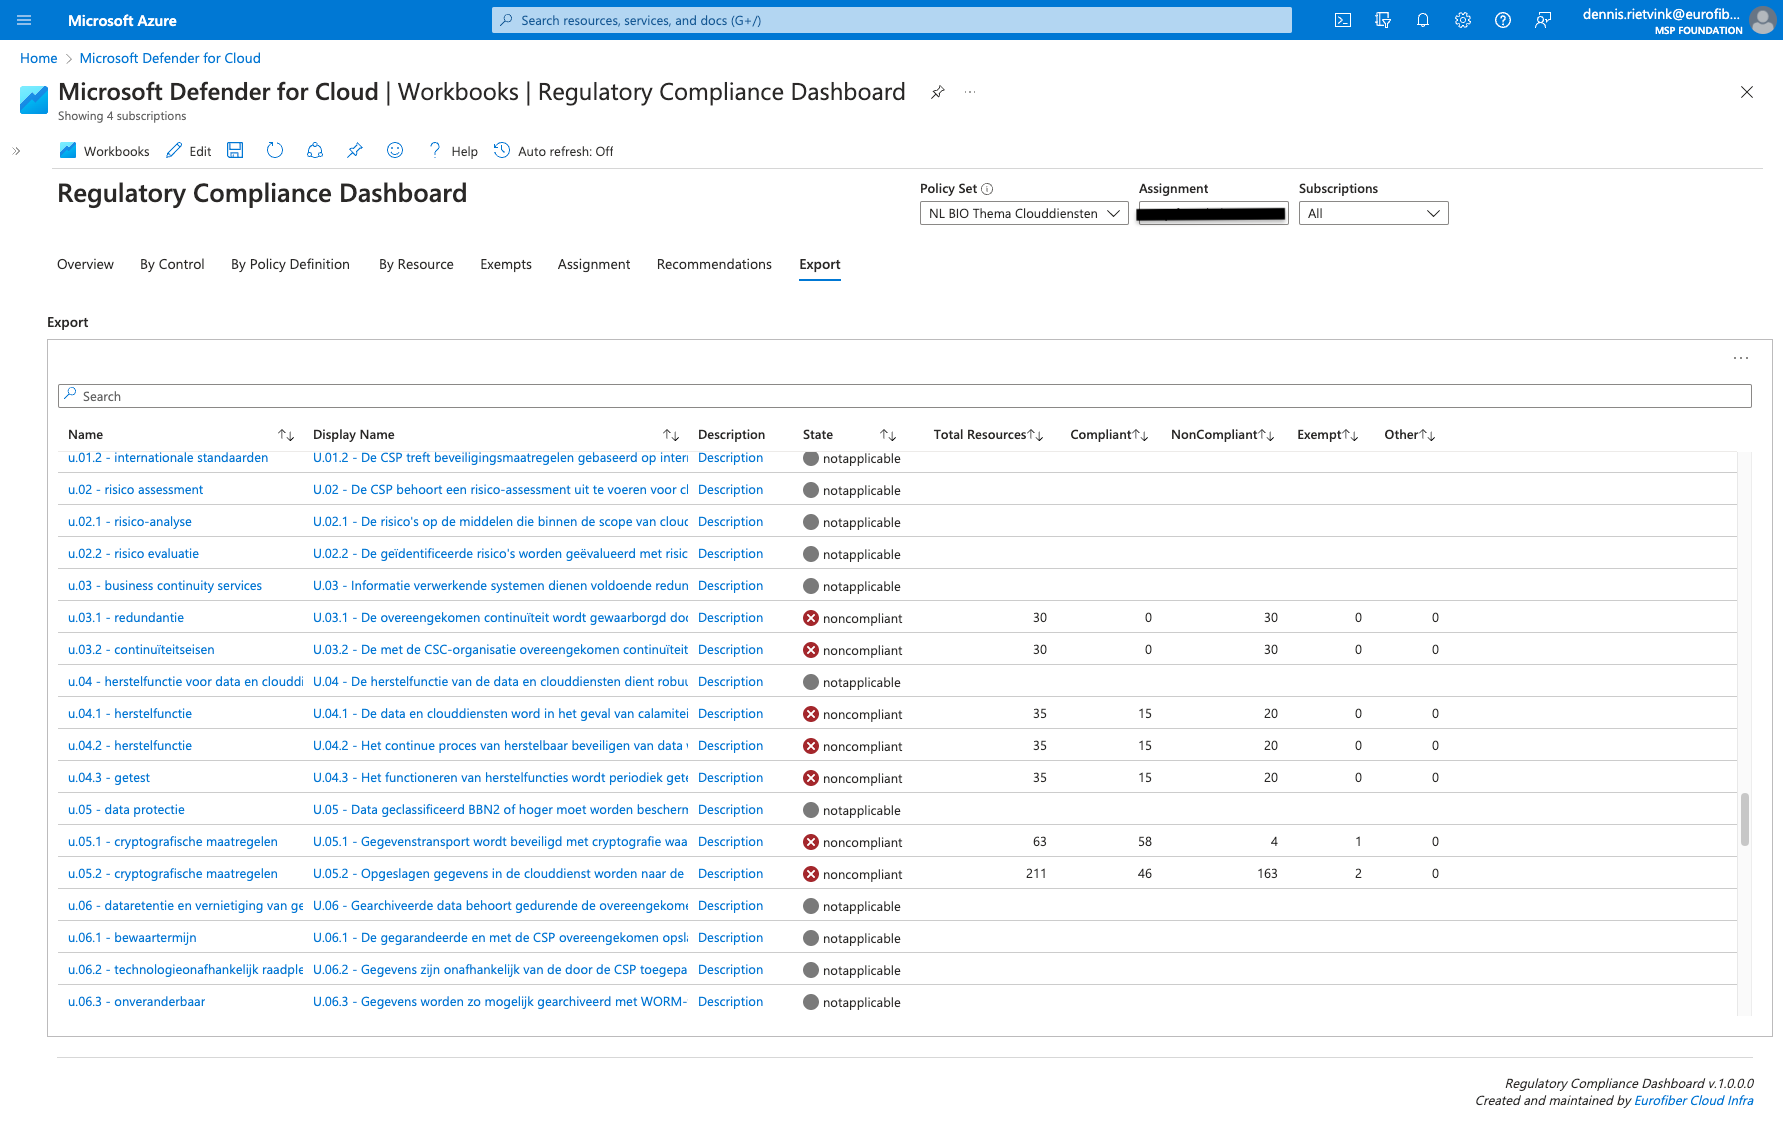
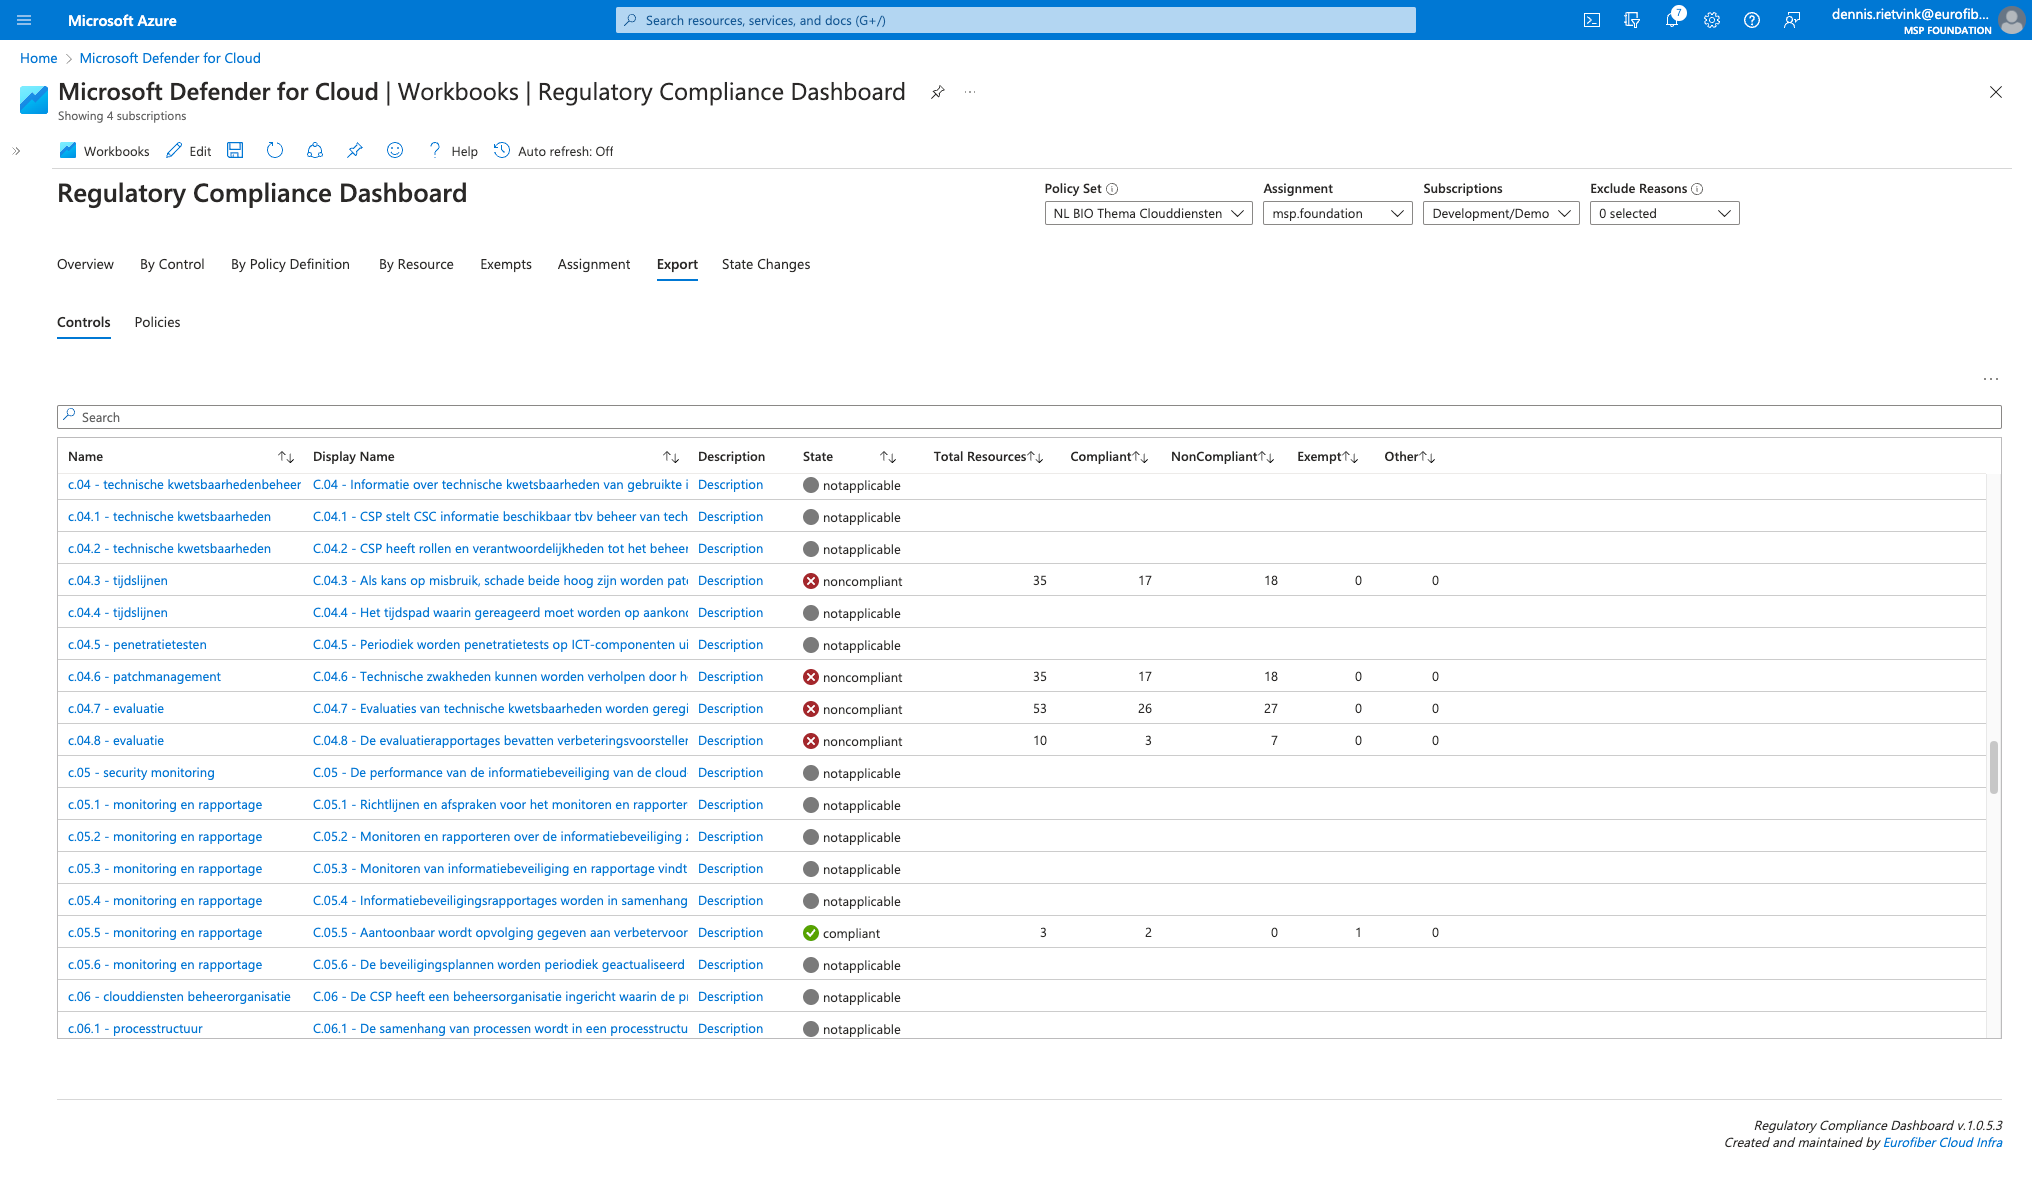
UPD: documentation

diff --git a/README.md b/README.md
@@ -1,40 +1,28 @@
 # Regulatory Compliance Workbook
 
-- [Regulatory Compliance Workbook](#regulatory-compliance-workbook)
-  - [Main features](#main-features)
-  - [Examples](#examples)
-    - [Overview](#overview)
-    - [In Context Details](#in-context-details)
-    - [Contextual Links](#contextual-links)
-    - [Export](#export)
-  - [Deploy the Workbook](#deploy-the-workbook)
-  - [Open the Workbook](#open-the-workbook)
+- [Main features](#main-features)
+- [Deploy the Workbook](#deploy-the-workbook)
+- [Open the Workbook](#open-the-workbook)
+- [Examples](#examples)
+  - [Overview](#overview)
+  - [In Context Details](#in-context-details)
+  - [Assignment Details](#assignment-details)
+  - [Exemption List](#exemption-list)
+  - [Export](#export)
+  - [State Changes](#state-changes)
 
 
 This Azure workbook was initially created to help our Dutch government customers to visualize compliance information produced by the [BIO Compliance Initiative](https://github.com/Azure/Bio-Compliancy). As the workbook targets policy initiatives of category **Regulatory Compliance** it can also be used for other regulatory compliance initiatives.
 
 ## Main features
-- Combines policy state information with Defender recommendation severities
+- Combines policy state information with Defender for Cloud recommendation severities
 - Shows policy state information in the context of Controls, Policy Definitions and Resources
-- Shows detailed context information on Exempts, Controls, Policy Definitions and Resources
 - Provides several contextual links to relevant Azure portal pages
 - Export compliance report to Excel
+- Shows effective exemption information for a resource based on policy definition
+- Shows policy state change information
 
-## Examples
-
-### Overview
-<kbd><img src="media/overview-clean.png" alt="overview"></kbd>
-
-### In Context Details
-<kbd><img src="media/by-policy-definition.png" alt="overview"></kbd>
-
-### Contextual Links
-<kbd><img src="media/recommendations.png" alt="overview"></kbd>
-
-### Export
-<kbd><img src="media/export.png" alt="overview"></kbd>
-
-
+Check the [changelog](./CHANGELOG.md) for the latest changes.
 
 ## Deploy the Workbook
 
@@ -45,4 +33,35 @@ The workbook can be deployed in your environment using the **Deploy to Azure** b
 
 The workbook can be opened from the resource group where it has been deployed or from the **Defender for Cloud** page in the Azure portal. It can be found under the **Workbooks** section (make sure you have select the subscription where the workbook has been deployed). <br><br>
 <kbd><img src="media/defender-for-cloud.png" alt="defender"></kbd>
+
+## Examples
+
+### Overview
+<kbd><img src="media/overview.png"></kbd>
+
+### In Context Details
+<kbd><img src="media/context-details.png"></kbd>
+
+Look up the effective exemption information for the selected resource policy combination.
+</br>
+</br>
+<kbd><img src="media/context-details-exempt.png"></kbd>
+
+### Assignment Details
+<kbd><img src="media/assignment-details.png"></kbd>
+
+### Exemption List
+<kbd><img src="media/exemption-list.png"></kbd>
+
+### Export
+<kbd><img src="media/export.png"></kbd>
+
+### State Changes
+Policy state changes shows the state change events for a selected time frame. The events are collected using an Events Grid System Topic. An explanation on how to setup such a configuration can be found [here](https://github.com/Eurofiber-CloudInfra/azure-policy-insights).
+</br>
+</br>
+<kbd><img src="media/state-changes.png"></kbd>
+
+
+
 

diff --git a/CHANGELOG.md b/CHANGELOG.md
@@ -1,0 +1,27 @@
+# Change Log
+
+## 2.0.0.0 - 2023-11-13
+
+### Changed
+
+- Exemption lookup based on Azure Resource Graph
+- Severity breakdown based on selected assignment (not on ASC policy)
+- Removed recommendation section
+- Improved overall query and workbook rendering performance
+- Excluded disabled subscriptions from subscription filter
+- Moved in context links for exemption creation and recommendation lookup to detailed pane
+
+### Added
+
+- Policy State Changes based on Event Grid System Topic event collection
+- Compliance state reason column
+- Compliance state reason filter
+- Effective policy exemption lookup
+- Policy filter for exemption list
+- Policy definition export
+- State resource count column
+
+
+## 1.0.0.0 - 2023-10-23
+
+- Initial version
